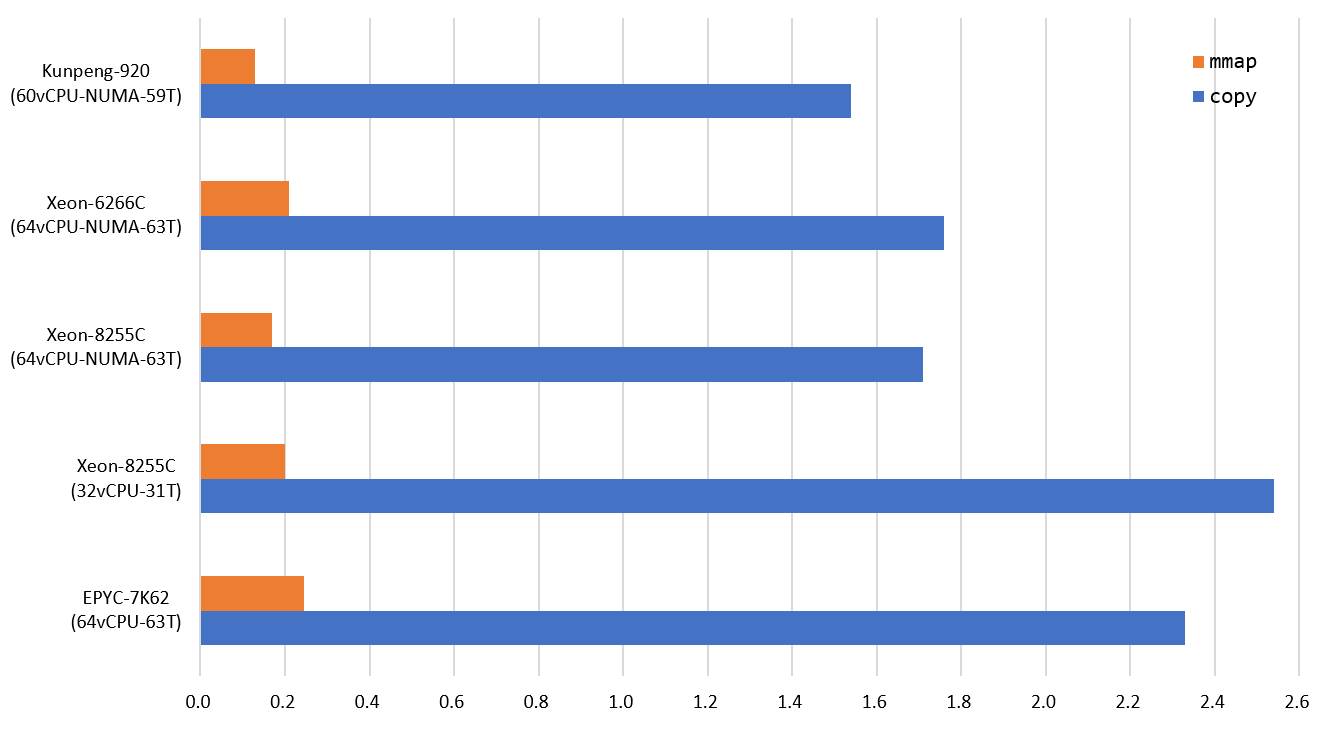
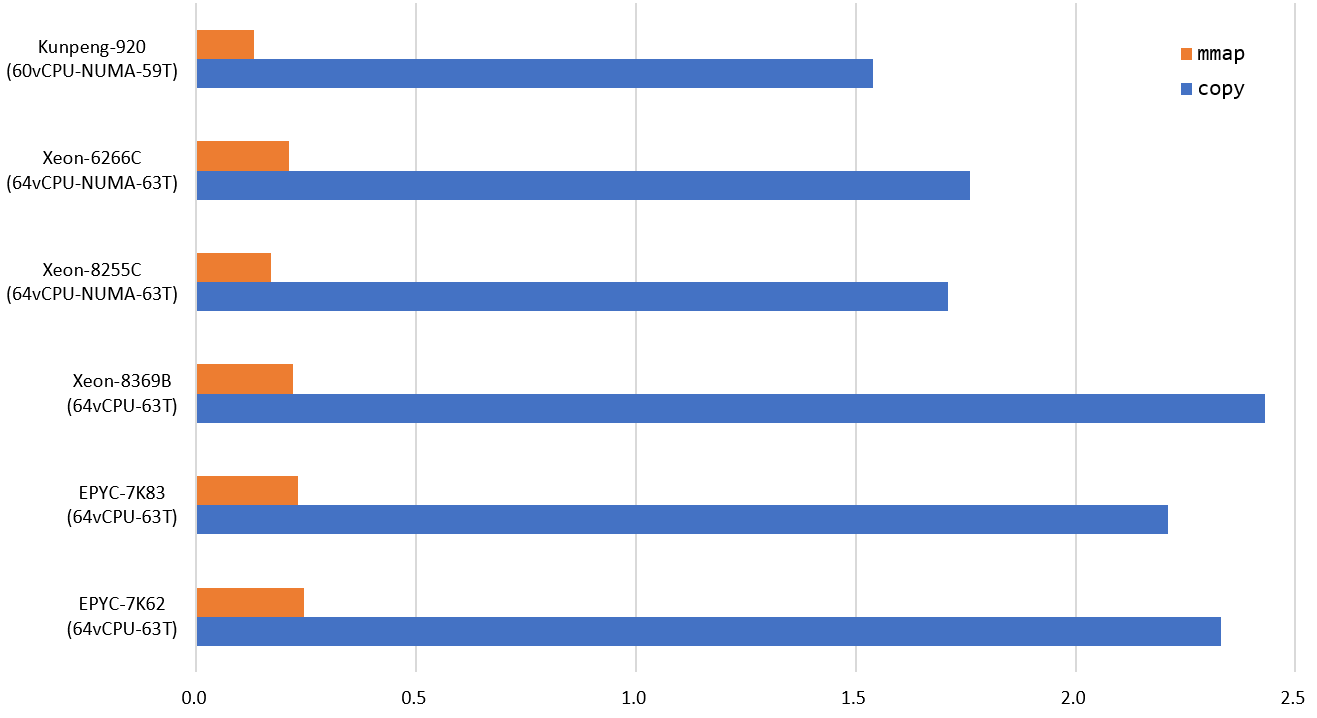
add benchmark result on Zen3 & IceLake

diff --git a/README-CN.md b/README-CN.md
@@ -2,7 +2,7 @@
 专为读多写少的场景优化的高性能KV字典。
 
 ![](images/estuary-read.png)
-单机可提供一亿左右QPS的读取性能（图中单位为百万）。
+单机可提供两亿QPS的读取性能（图中单位为百万）。
 ![](images/estuary-write.png)
 在放弃落盘的情况下写入QPS可以达两百万以上。
 

diff --git a/README.md b/README.md
@@ -2,7 +2,7 @@
 Dictionary designed for read-mostly scene.
 
 ![](images/estuary-read.png)
-It can provide about 100M read QPS on single machine.
+It can provide 200M read QPS on single machine.
 ![](images/estuary-write.png)
 And more than 2M write QPS without persistence.
 
